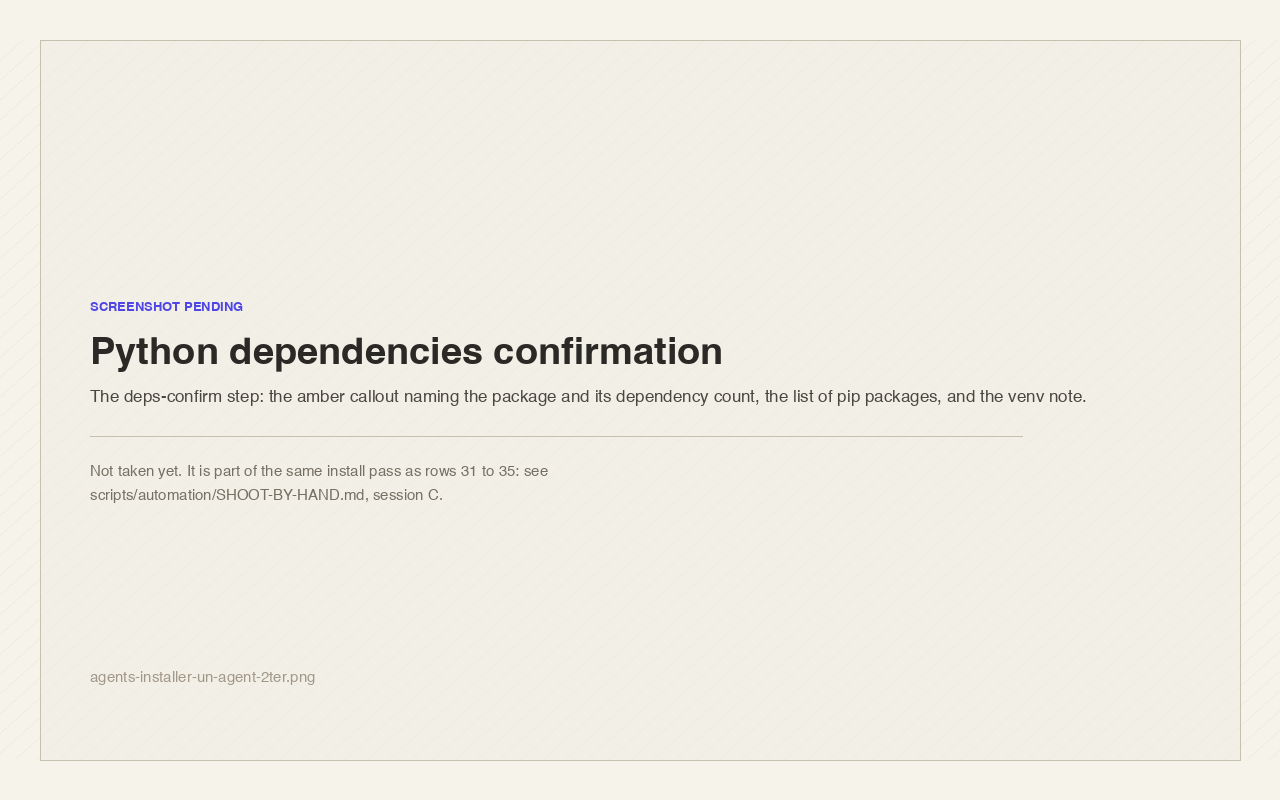
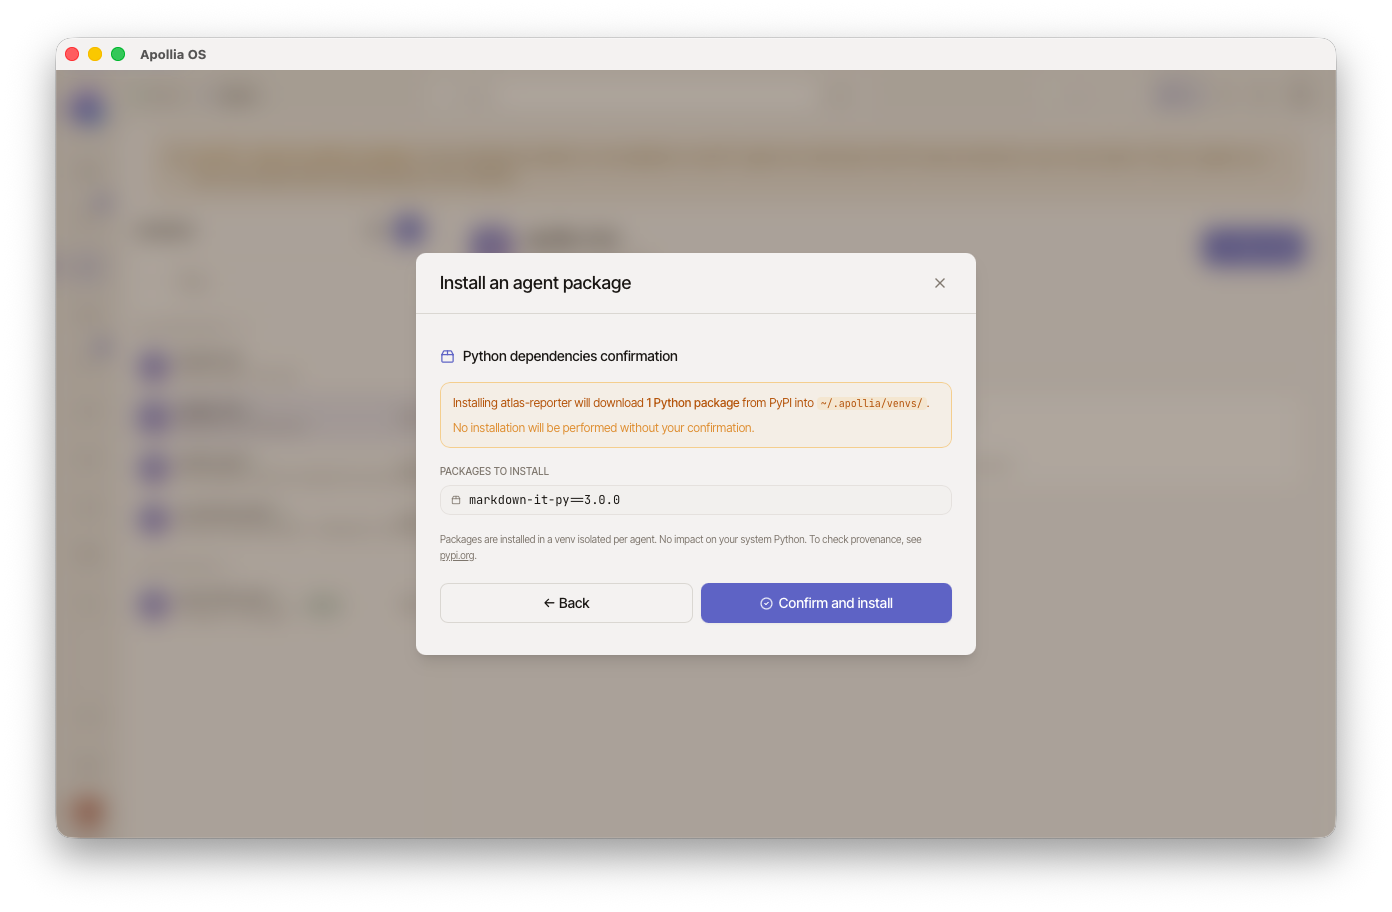
fix(apollia-desktop): keep the cause when installing an agent is refused
Picking a Python file that the loader refuses showed one sentence, "an
unexpected error stopped this action from completing", and wrote nothing to
the logs. The cause was there the whole way: the command returns the Python
error verbatim and `humanize` keeps it on `detail`. The route then took
`.friendly_message` and dropped the rest, so a missing `version` argument on
`@agent` reached the operator as a generic failure with nothing to act on.

The banner now shows the humanized message, the suggested action, and the
raw cause behind a details disclosure, the same shape the update panel
already used. `errors.show_details` moves that label out of the update
namespace since it is no longer specific to it.

Both loader call sites log the refusal with the path and the cause, so the
next one leaves a trace on the backend side too.

The seed's MCP stub gains `read_seed_note`. It listed three note ids and
exposed no way to open one, so a model asked to read the most recent did
everything right and still ended the turn explaining it could not: the
catalogue was the dead end, not the model.

diff --git a/crates/apollia-desktop/ui/src/routes/Agents.svelte b/crates/apollia-desktop/ui/src/routes/Agents.svelte
@@ -22,6 +22,7 @@
   } from "$lib/stores/agentPackages";
   import { SplitLayout, ErrorBanner } from "$lib/components/operator";
   import { reportError } from "$lib/errors/reportError";
+  import type { HumanizedError } from "$lib/errors/humanize";
   import { createChatSession, installAgent } from "$lib/ipc/agents";
   import MacSandboxBanner from "../components/common/MacSandboxBanner.svelte";
   import AgentLogs from "../components/agents/AgentLogs.svelte";
@@ -51,7 +52,12 @@
   let pkgDetail = $state<AgentPackageDetailView | null>(null);
 
   let installingAgent = $state(false);
-  let installError = $state<string | null>(null);
+  // The humanized error, not just its sentence. Installing an agent fails for
+  // exactly one interesting reason, a Python module the loader refuses, and the
+  // Python cause is the only actionable part. Keeping the string alone reduced
+  // "@agent() missing a required argument: 'version'" to "an unexpected error
+  // stopped this action", which tells the operator nothing to act on.
+  let installError = $state<HumanizedError | null>(null);
   let installPackageOpen = $state(false);
   let logsAgentId = $state<string | null>(null);
   let logsOpen = $state(false);
@@ -156,7 +162,7 @@
       installingAgent = true;
       await installAgent(path);
     } catch (err) {
-      installError = reportError(err, { surface: "inline" }).friendly_message;
+      installError = reportError(err, { surface: "inline" });
     } finally {
       installingAgent = false;
     }
@@ -202,7 +208,23 @@
   <div class="px-8 pt-3">
     <MacSandboxBanner />
     {#if installError}
-      <ErrorBanner message={installError} class="mt-3" />
+      <ErrorBanner class="mt-3" data-testid="agent-install-error">
+        <p class="font-medium">{installError.friendly_message}</p>
+        <p class="text-caption opacity-90">{installError.suggested_action}</p>
+        {#if installError.detail}
+          <details class="mt-2">
+            <summary
+              class="cursor-pointer text-caption opacity-70 focus-visible:outline-none focus-visible:ring-2 focus-visible:ring-ring/60"
+              data-testid="agent-install-error-details"
+            >
+              {$t("errors.show_details")}
+            </summary>
+            <p class="mt-1.5 break-all font-mono text-code-sm opacity-80">
+              {installError.detail}
+            </p>
+          </details>
+        {/if}
+      </ErrorBanner>
     {/if}
   </div>
 

diff --git a/scripts/automation/seed/files/mcp-stub-server.py b/scripts/automation/seed/files/mcp-stub-server.py
@@ -40,6 +40,47 @@ INSTRUCTIONS = (
 # Fixed tool catalogue. Each entry is a valid MCP tool definition
 # (name, description, inputSchema). Kept small and stable so the tools tab
 # renders a deterministic count and list.
+# The three demo notes, written to fit the seed's Atlas migration narrative.
+# `list_seed_notes` announces them and `read_seed_note` returns one: a catalogue
+# that lists identifiers nobody can open is what a model reports back as a dead
+# end, and it did, which is how this pair came to exist.
+NOTES = [
+    {
+        "id": "note-1",
+        "title": "Batch 3 conversion failures",
+        "updated": "2026-06-28",
+        "body": (
+            "Seven pages in batch 3 came out of the converter with their tables "
+            "flattened into paragraphs. All seven use a nested table inside a "
+            "callout, which the extractor does not walk. Batch 4 inherits the "
+            "same template, so it will fail the same way until the extractor "
+            "handles nesting."
+        ),
+    },
+    {
+        "id": "note-2",
+        "title": "Link audit, second pass",
+        "updated": "2026-07-02",
+        "body": (
+            "Second pass over the migrated set: 41 links still point at the old "
+            "wiki. 12 of them resolve through a redirect that will be retired "
+            "with the wiki itself, so they are broken on a delay rather than "
+            "broken now. Rewrite those first."
+        ),
+    },
+    {
+        "id": "note-3",
+        "title": "What blocks the batch 4 hand-off",
+        "updated": "2026-07-09",
+        "body": (
+            "Batch 4 cannot ship while the nested-table case from note-1 is "
+            "open: 19 of its 60 pages use that template. Everything else in "
+            "batch 4 is ready. The hand-off note to the client should say so "
+            "plainly rather than announce a date."
+        ),
+    },
+]
+
 TOOLS = [
     {
         "name": "echo",
@@ -54,10 +95,27 @@ TOOLS = [
     },
     {
         "name": "list_seed_notes",
-        "description": "List the fixed demo notes bundled with the seed stub.",
+        "description": (
+            "List the demo notes bundled with the seed stub, with their id, "
+            "title and last-updated date. Read one with read_seed_note."
+        ),
         "inputSchema": {
             "type": "object",
             "properties": {},
+        },
+    },
+    {
+        "name": "read_seed_note",
+        "description": "Return the full text of one demo note, by its id.",
+        "inputSchema": {
+            "type": "object",
+            "properties": {
+                "note_id": {
+                    "type": "string",
+                    "description": "Note identifier, as listed by list_seed_notes.",
+                }
+            },
+            "required": ["note_id"],
         },
     },
     {
@@ -95,7 +153,27 @@ def _handle_tools_call(request_id, params):
         text = str(arguments.get("text", ""))
         payload = f"echo: {text}"
     elif name == "list_seed_notes":
-        payload = "note-1; note-2; note-3"
+        payload = "\n".join(
+            f"{note['id']} - {note['title']} (updated {note['updated']})" for note in NOTES
+        )
+    elif name == "read_seed_note":
+        note_id = str(arguments.get("note_id", ""))
+        note = next((n for n in NOTES if n["id"] == note_id), None)
+        if note is None:
+            known = ", ".join(n["id"] for n in NOTES)
+            return _result(
+                request_id,
+                {
+                    "content": [
+                        {
+                            "type": "text",
+                            "text": f"no note with id '{note_id}'. Known ids: {known}.",
+                        }
+                    ],
+                    "isError": True,
+                },
+            )
+        payload = f"{note['title']} (updated {note['updated']})\n\n{note['body']}"
     elif name == "get_seed_status":
         payload = "status: ok (seed stub)"
     else:

diff --git a/crates/apollia-desktop/src/commands/agents.rs b/crates/apollia-desktop/src/commands/agents.rs
@@ -458,8 +458,19 @@ pub async fn install_agent(
         .canonicalize()
         .map_err(|e| format!("cannot resolve path {path}: {e}"))?;
 
-    // Validate the Python module.
-    let manifest = loader.load_and_validate(&canonical)?;
+    // Validate the Python module. A rejection here carries the Python error
+    // verbatim (a missing decorator argument, a bad import), which is the only
+    // thing that tells the operator what to change. Log it: without this line
+    // the refusal reached the window as one generic sentence and left nothing
+    // behind on either side.
+    let manifest = loader.load_and_validate(&canonical).map_err(|e| {
+        tracing::warn!(
+            path = %canonical.display(),
+            cause = %e,
+            "agent.install.rejected"
+        );
+        e
+    })?;
 
     let data_dir = apollia_data_dir();
     let agents_dir = data_dir.join("agents").join(&manifest.name);
@@ -670,8 +681,17 @@ pub async fn update_agent(
         .ok_or_else(|| format!("agent '{name}' not found in installed agents"))?
     };
 
-    // Validate the new Python module.
-    let manifest = loader.load_and_validate(&canonical)?;
+    // Validate the new Python module. Same reasoning as the install path: the
+    // Python cause is the actionable part and must survive the boundary.
+    let manifest = loader.load_and_validate(&canonical).map_err(|e| {
+        tracing::warn!(
+            agent = %name,
+            path = %canonical.display(),
+            cause = %e,
+            "agent.update.rejected"
+        );
+        e
+    })?;
 
     // Copy new file to install location.
     std::fs::copy(&canonical, &existing.install_path).map_err(|e| {

diff --git a/scripts/automation/SHOOT-BY-HAND.md b/scripts/automation/SHOOT-BY-HAND.md
@@ -131,7 +131,7 @@ yet. Add one and this becomes the seventy-third automated capture.
 ## Session E. An MCP tool approval, one image
 
 Needs `llama-server` on the `PATH` and the seed loaded: it connects two MCP
-servers, `notes` and `filesystem`, six tools between them.
+servers, `notes` and `filesystem`, eight tools between them.
 
 | File | Gesture | What must be on screen | Crop |
 |---|---|---|---|
@@ -147,9 +147,14 @@ indexed and unreachable.
 
 Deferred mode now advertises the whole index when it fits `mcp.tool_search_limit`
 (20 by default), schemas included, and falls back to search-only above that.
-Six tools across two servers is well inside that bound, so the approval popup is
-one prompt away. If the model still refuses, that is a finding, not a shooting
-problem: say so rather than switching the seed to `eager`.
+Eight tools across two servers is well inside that bound, so the approval popup
+is one prompt away. If the model still refuses, that is a finding, not a
+shooting problem: say so rather than switching the seed to `eager`.
+
+The stub gained `read_seed_note` for this row. It used to list three note ids
+and expose no way to open one, so a model that did everything right still ended
+the turn explaining it could not read them, and the second half of the prompt
+was unreachable.
 
 ---
 
